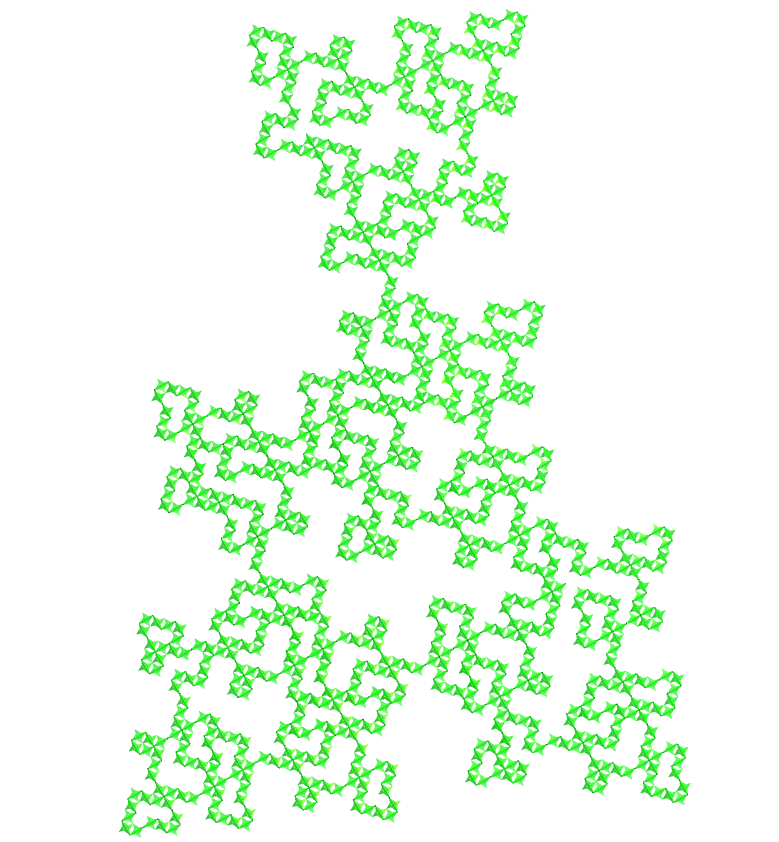
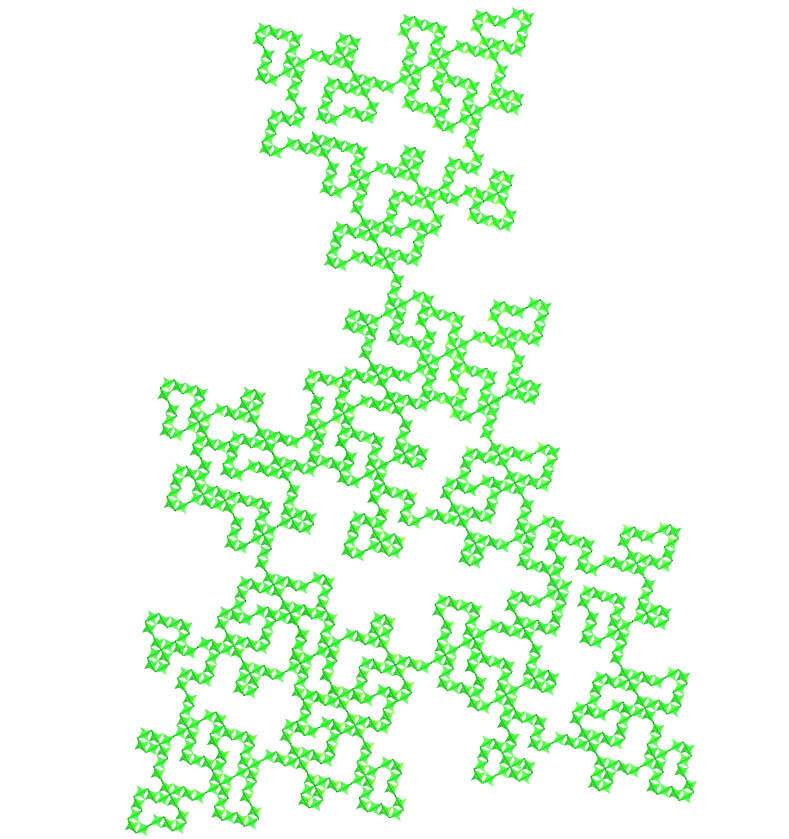
update

Changed region(s): [[0.154, 0.0, 0.8935, 1.0]]

diff --git a/et/vr/curve76.htm b/et/vr/curve76.htm
@@ -14,14 +14,14 @@
 <div style='color:#fada91; position: fixed; bottom: 1vh; left:1vw; width:100%; z-index: 1; font-family: Lato; font-size:3vh; font-weight:bold; text-shadow:1px 1px 1px royalblue;'>paulohscwb@gmail.com <br> &copy; 2026 Paulo Henrique Siqueira</div>
     <a-scene renderer="logarithmicDepthBuffer: true; colorManagement: true;">
 		<a-assets>
-			<a-mixin id="p1a" position="-2.12 1.06 0" mixin="sc" rotation="0 0 90"></a-mixin>
-			<a-mixin id="p2a" position="-1.06 2.12 0" mixin="sc" rotation="0 0 0"></a-mixin>
-			<a-mixin id="p3a" position="0 1.06 0" mixin="sc" rotation="0 0 90"></a-mixin>
-			<a-mixin id="p4a" position="1.06 0 0" mixin="sc" rotation="0 0 0"></a-mixin>
+			<a-mixin id="p1a" position="-2.12 1.06 0" mixin="sc" rotation="90 0 90"></a-mixin>
+			<a-mixin id="p2a" position="-1.06 2.12 0" mixin="sc" rotation="0 -90 90"></a-mixin>
+			<a-mixin id="p3a" position="0 1.06 0" mixin="sc" rotation="90 0 90"></a-mixin>
+			<a-mixin id="p4a" position="1.06 0 0" mixin="sc" rotation="0 -90 90"></a-mixin>
 			
 			<a-mixin id="sc" scale="0.9658 0.9658 0.9658"></a-mixin>
 			<!--SCALE = scale de MTL4 * 0.7071 -->
-			<a-mixin scale="0.732 0.732 0.732" rotation="0 0 0" id="ar" line__0="start: -1.5 0 0; end: 1.5 0 0; color: green"></a-mixin><!--SCALE = inverso do scale de MTL4 -->
+			<a-mixin scale="0.732 0.732 0.732" rotation="0 90 0" id="ar" line__0="start: -1.5 0 0; end: 1.5 0 0; color: green"></a-mixin><!--SCALE = inverso do scale de MTL4 -->
 			
 			<a-mixin id="mtl4" scale="1.366 1.366 1.366" obj-model="obj: #aq; mtl: #mt1"></a-mixin>
 			<!--SCALE = scale original * 0.618919 -->
@@ -33,7 +33,7 @@
 		<a-light type="point" color="yellow" intensity="1"></a-light>
 		<a-entity scale="2.25 2.25 2.25" rotation="0 0 120" position="0 1 0">
 			<a-entity scale="1 1 1" id="nivel0">
-				<a-entity mixin="mtl4" rotation="0 0 0"><a-entity mixin="ar"></a-entity></a-entity>
+				<a-entity mixin="mtl4" rotation="0 90 0"><a-entity mixin="ar"></a-entity></a-entity>
 			</a-entity>
 			<a-entity scale="0.7071 0.7071 0.7071" id="nivel1" visible="false">
 				<a-entity mixin="mtl4 p1a"><a-entity mixin="ar"></a-entity></a-entity>

diff --git a/et/vr/curve75.htm b/et/vr/curve75.htm
@@ -14,14 +14,14 @@
 <div style='color:#fada91; position: fixed; bottom: 1vh; left:1vw; width:100%; z-index: 1; font-family: Lato; font-size:3vh; font-weight:bold; text-shadow:1px 1px 1px royalblue;'>paulohscwb@gmail.com <br> &copy; 2026 Paulo Henrique Siqueira</div>
     <a-scene renderer="logarithmicDepthBuffer: true; colorManagement: true;">
 		<a-assets>
-			<a-mixin id="p1a" position="-2.12 1.06 0" mixin="sc" rotation="0 0 90"></a-mixin>
-			<a-mixin id="p2a" position="-1.06 2.12 0" mixin="sc" rotation="0 0 0"></a-mixin>
-			<a-mixin id="p3a" position="0 1.06 0" mixin="sc" rotation="0 0 90"></a-mixin>
-			<a-mixin id="p4a" position="1.06 0 0" mixin="sc" rotation="0 0 0"></a-mixin>
+			<a-mixin id="p1a" position="-2.12 1.06 0" mixin="sc" rotation="90 0 90"></a-mixin>
+			<a-mixin id="p2a" position="-1.06 2.12 0" mixin="sc" rotation="0 -90 90"></a-mixin>
+			<a-mixin id="p3a" position="0 1.06 0" mixin="sc" rotation="90 0 90"></a-mixin>
+			<a-mixin id="p4a" position="1.06 0 0" mixin="sc" rotation="0 -90 90"></a-mixin>
 			
 			<a-mixin id="sc" scale="0.445 0.445 0.445"></a-mixin>
 			<!--SCALE = scale de MTL4 * 0.7071 -->
-			<a-mixin scale="1.587 1.587 1.587" rotation="0 0 0" id="ar" line__0="start: -1.5 0 0; end: 1.5 0 0; color: green"></a-mixin><!--SCALE = inverso do scale de MTL4 -->
+			<a-mixin scale="1.587 1.587 1.587" rotation="0 90 0" id="ar" line__0="start: -1.5 0 0; end: 1.5 0 0; color: green"></a-mixin><!--SCALE = inverso do scale de MTL4 -->
 			
 			<a-mixin id="mtl4" scale="0.63 0.63 0.63" obj-model="obj: #aq; mtl: #mt1"></a-mixin>
 			<!--SCALE = scale original * 0.618919 -->
@@ -33,7 +33,7 @@
 		<a-light type="point" color="yellow" intensity="1"></a-light>
 		<a-entity scale="2.25 2.25 2.25" rotation="0 0 120" position="0 1 0">
 			<a-entity scale="1 1 1" id="nivel0">
-				<a-entity mixin="mtl4" rotation="0 0 0"><a-entity mixin="ar"></a-entity></a-entity>
+				<a-entity mixin="mtl4" rotation="0 90 0"><a-entity mixin="ar"></a-entity></a-entity>
 			</a-entity>
 			<a-entity scale="0.7071 0.7071 0.7071" id="nivel1" visible="false">
 				<a-entity mixin="mtl4 p1a"><a-entity mixin="ar"></a-entity></a-entity>
